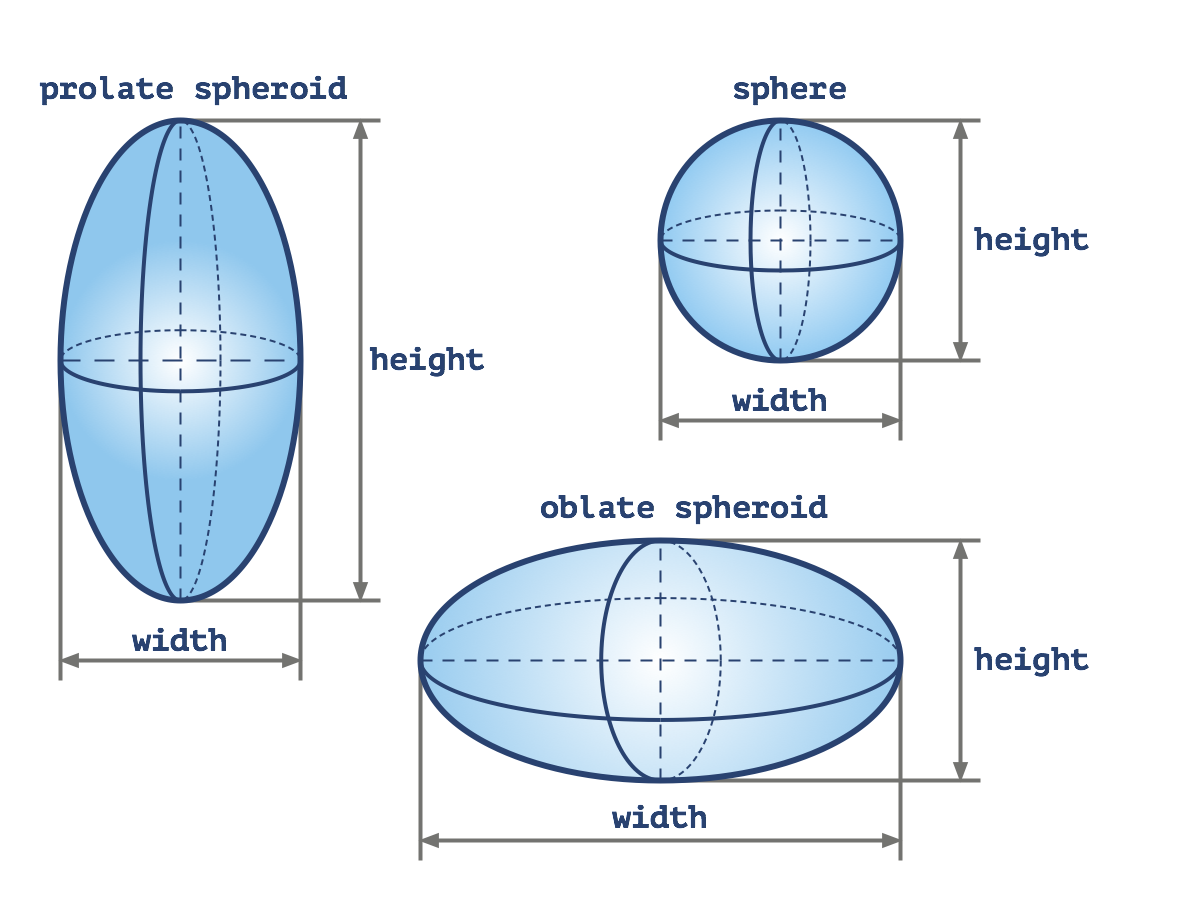
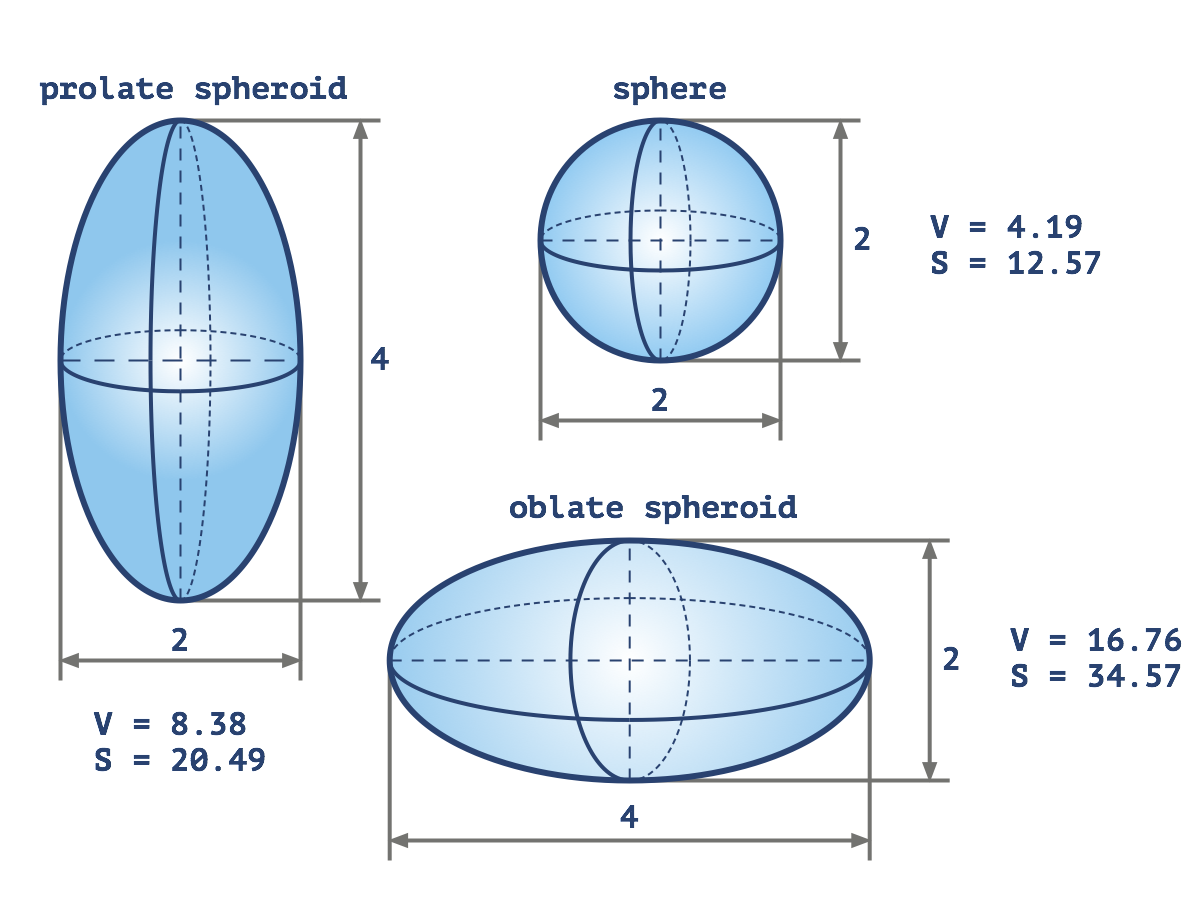
explanation

diff --git a/editor/animation/init.js b/editor/animation/init.js
@@ -62,28 +62,24 @@ requirejs(['ext_editor_1', 'jquery_190', 'raphael_210'],
             //if you need additional info from tests (if exists)
             var explanation = data.ext["explanation"];
 
+            var strInput = checkioInput[0] + ", " + checkioInput[1];
+
             $content.find('.output').html('&nbsp;Your result:&nbsp;' + JSON.stringify(userResult));
 
             if (!result) {
-                $content.find('.call').html('Fail: checkio(' + JSON.stringify(checkioInput) + ')');
-                $content.find('.answer').html('Right result:&nbsp;' + JSON.stringify(rightResult));
+                $content.find('.call').html('Fail: checkio(' + strInput + ')');
+                $content.find('.answer').html('Right result:&nbsp;' + JSON.stringify(explanation));
                 $content.find('.answer').addClass('error');
                 $content.find('.output').addClass('error');
                 $content.find('.call').addClass('error');
             }
             else {
-                $content.find('.call').html('Pass: checkio(' + JSON.stringify(checkioInput) + ')');
+                $content.find('.call').html('Pass: checkio(' + strInput + ')');
                 $content.find('.answer').remove();
             }
-            //Dont change the code before it
 
-            //Your code here about test explanation animation
-            //$content.find(".explanation").html("Something text for example");
-            //
-            //
-            //
-            //
-            //
+            var canvas = new SpheroidCanvas();
+            canvas.createCanvas($content.find(".explanation")[0], checkioInput[0], checkioInput[1]);
 
 
             this_e.setAnimationHeight($content.height() + 60);
@@ -106,27 +102,133 @@ requirejs(['ext_editor_1', 'jquery_190', 'raphael_210'],
 //            });
 //        });
 
-        var colorOrange4 = "#F0801A";
-        var colorOrange3 = "#FA8F00";
-        var colorOrange2 = "#FAA600";
-        var colorOrange1 = "#FABA00";
 
-        var colorBlue4 = "#294270";
-        var colorBlue3 = "#006CA9";
-        var colorBlue2 = "#65A1CF";
-        var colorBlue1 = "#8FC7ED";
+        function SpheroidCanvas(options) {
+            options = options || {};
+            var format = Raphael.format;
 
-        var colorGrey4 = "#737370";
-        var colorGrey3 = "#9D9E9E";
-        var colorGrey2 = "#C5C6C6";
-        var colorGrey1 = "#EBEDED";
+            var colorOrange4 = "#F0801A";
+            var colorOrange3 = "#FA8F00";
+            var colorOrange2 = "#FAA600";
+            var colorOrange1 = "#FABA00";
 
-        var colorWhite = "#FFFFFF";
-        //Your Additional functions or objects inside scope
-        //
-        //
-        //
+            var colorBlue4 = "#294270";
+            var colorBlue3 = "#006CA9";
+            var colorBlue2 = "#65A1CF";
+            var colorBlue1 = "#8FC7ED";
 
+            var colorGrey4 = "#737370";
+            var colorGrey3 = "#9D9E9E";
+            var colorGrey2 = "#C5C6C6";
+            var colorGrey1 = "#EBEDED";
+
+            var colorWhite = "#FFFFFF";
+
+            var x0 = 10,
+                y0 = 10,
+                field = 320,
+                margin = 40;
+
+            var paper;
+
+            var attrOuter = {"stroke": colorBlue4, "stroke-width": 3, "fill": "r#FFFFFF-#8FC7ED"};
+            var attrNear = {"stroke": colorBlue4, "stroke-width": 2};
+            var attrAxis = {"stroke": colorBlue4, "stroke-width": 1, "stroke-dasharray": "- "};
+            var attrFar = {"stroke": colorBlue4, "stroke-width": 1, "stroke-dasharray": "-"};
+            var attrMeasureLine = {"stroke": colorGrey4, "stroke-width": 2};
+            var attrData = {"stroke": colorBlue4, "font-size": 20, "font-family": "Verdana"};
+
+            var outer, nearVert, nearHoriz, farVert, farHoriz, axisVert, axisHoriz;
+            var measureVtop, measureVlow, measureVcon, measureHleft, measureHright, measureHcon;
+            var measureV, measureH;
+
+            this.createCanvas = function (dom, height, width) {
+                var unit = Math.min(field / 4, field / Math.max(height, width));
+                var cx = x0 + field / 2,
+                    cy = y0 + field / 2;
+                paper = Raphael(dom, x0 * 2 + field + margin, x0 * 2 + field + margin);
+
+                measureVtop = paper.path(format("M{0},{1}H{2}",
+                    cx, cy - unit * height / 2, 2.5 * x0 + field
+                )).attr(attrMeasureLine);
+                measureVlow = paper.path(format("M{0},{1}H{2}",
+                    cx, cy + unit * height / 2, 2.5 * x0 + field
+                )).attr(attrMeasureLine);
+                measureVcon = paper.path(format("M{0},{1}V{2}",
+                    2 * x0 + field,
+                    cy - unit * height / 2,
+                    cy + unit * height / 2
+                )).attr(attrMeasureLine).attr({"arrow-end": "classical", "arrow-start": "classical"});
+                measureV = paper.text(x0 * 2 + field + margin / 2, cy, height).attr(attrData);
+
+                measureHleft = paper.path(format("M{0},{1}V{2}",
+                    cx - unit * width / 2, cy, 4.5 * y0 + field
+                )).attr(attrMeasureLine);
+                measureHright = paper.path(format("M{0},{1}V{2}",
+                    cx + unit * width / 2, cy, 4.5 * y0 + field
+                )).attr(attrMeasureLine);
+                measureHcon = paper.path(format("M{0},{1}H{2}",
+                    cx - unit * width / 2,
+                    4 * y0 + field,
+                    cx + unit * width / 2
+                )).attr(attrMeasureLine).attr({"arrow-end": "classical", "arrow-start": "classical"});
+                measureH = paper.text(cx, y0 * 2.5 + field, width).attr(attrData);
+
+                outer = paper.ellipse(cx, cy, unit * width / 2, unit * height / 2).attr(attrOuter);
+
+                nearVert = paper.path(
+                    format("M{0},{1}A{2},{3},0,0,0,{0},{4}",
+                        cx,
+                        cy - unit * height / 2,
+                        unit * width / 8,
+                        unit * height / 2,
+                        cy + unit * height / 2
+                    )).attr(attrNear);
+
+                farVert = paper.path(
+                    format("M{0},{1}A{2},{3},0,0,1,{0},{4}",
+                        cx,
+                        cy - unit * height / 2,
+                        unit * width / 8,
+                        unit * height / 2,
+                        cy + unit * height / 2
+                    )).attr(attrFar);
+
+                axisVert = paper.path(
+                    format("M{0},{1}L{0},{2}",
+                        cx,
+                        cy - unit * height / 2,
+                        cy + unit * height / 2
+                    )).attr(attrAxis);
+
+                nearHoriz = paper.path(
+                    format("M{0},{1}A{2},{3},0,0,0,{4},{1}",
+                        cx - unit * width / 2,
+                        cy,
+                        unit * width / 2,
+                        unit * width / 8,
+                        cx + unit * width / 2
+                    )).attr(attrNear);
+
+                farHoriz = paper.path(
+                    format("M{0},{1}A{2},{3},0,0,1,{4},{1}",
+                        cx - unit * width / 2,
+                        cy,
+                        unit * width / 2,
+                        unit * width / 8,
+                        cx + unit * width / 2
+                    )).attr(attrFar);
+
+                axisHoriz = paper.path(
+                    format("M{0},{1}L{2},{1}",
+                        cx - unit * width / 2,
+                        cy,
+                        cx + unit * width / 2
+                    )).attr(attrAxis);
+
+
+            }
+        }
 
     }
 );

diff --git a/info/task_description.html b/info/task_description.html
@@ -11,7 +11,7 @@
 
     }
 </style>
-<div style="position: relative;">
+<div class="for_info_only" style="position: relative;">
 
 
     <div class="story shadow" style="width: 360px; height: 215px; margin-bottom: 0">

diff --git a/verification/referee.py b/verification/referee.py
@@ -6,6 +6,17 @@ from checkio.referees import checkers
 
 from tests import TESTS
 
+
+def checker(right_answer, user_answer):
+    if not isinstance(user_answer, list) or len(user_answer) != 2:
+        return False, "It's not a list"
+    if any([not isinstance(x, (float, int)) for x in user_answer]):
+        return False, "It's not numbers"
+    precision = 0.1 ** 2
+    return (right_answer[0] - precision <= user_answer[0] <= right_answer[0] + precision and
+            right_answer[1] - precision <= user_answer[1] <= right_answer[1] + precision), None
+
+
 api.add_listener(
     ON_CONNECT,
     CheckiOReferee(
@@ -14,4 +25,4 @@ api.add_listener(
             'python-27': cover_codes.unwrap_args,
             'python-3': cover_codes.unwrap_args
         },
-        checker=checkers.float_comparison(2)).on_ready)
+        checker=checker).on_ready)
